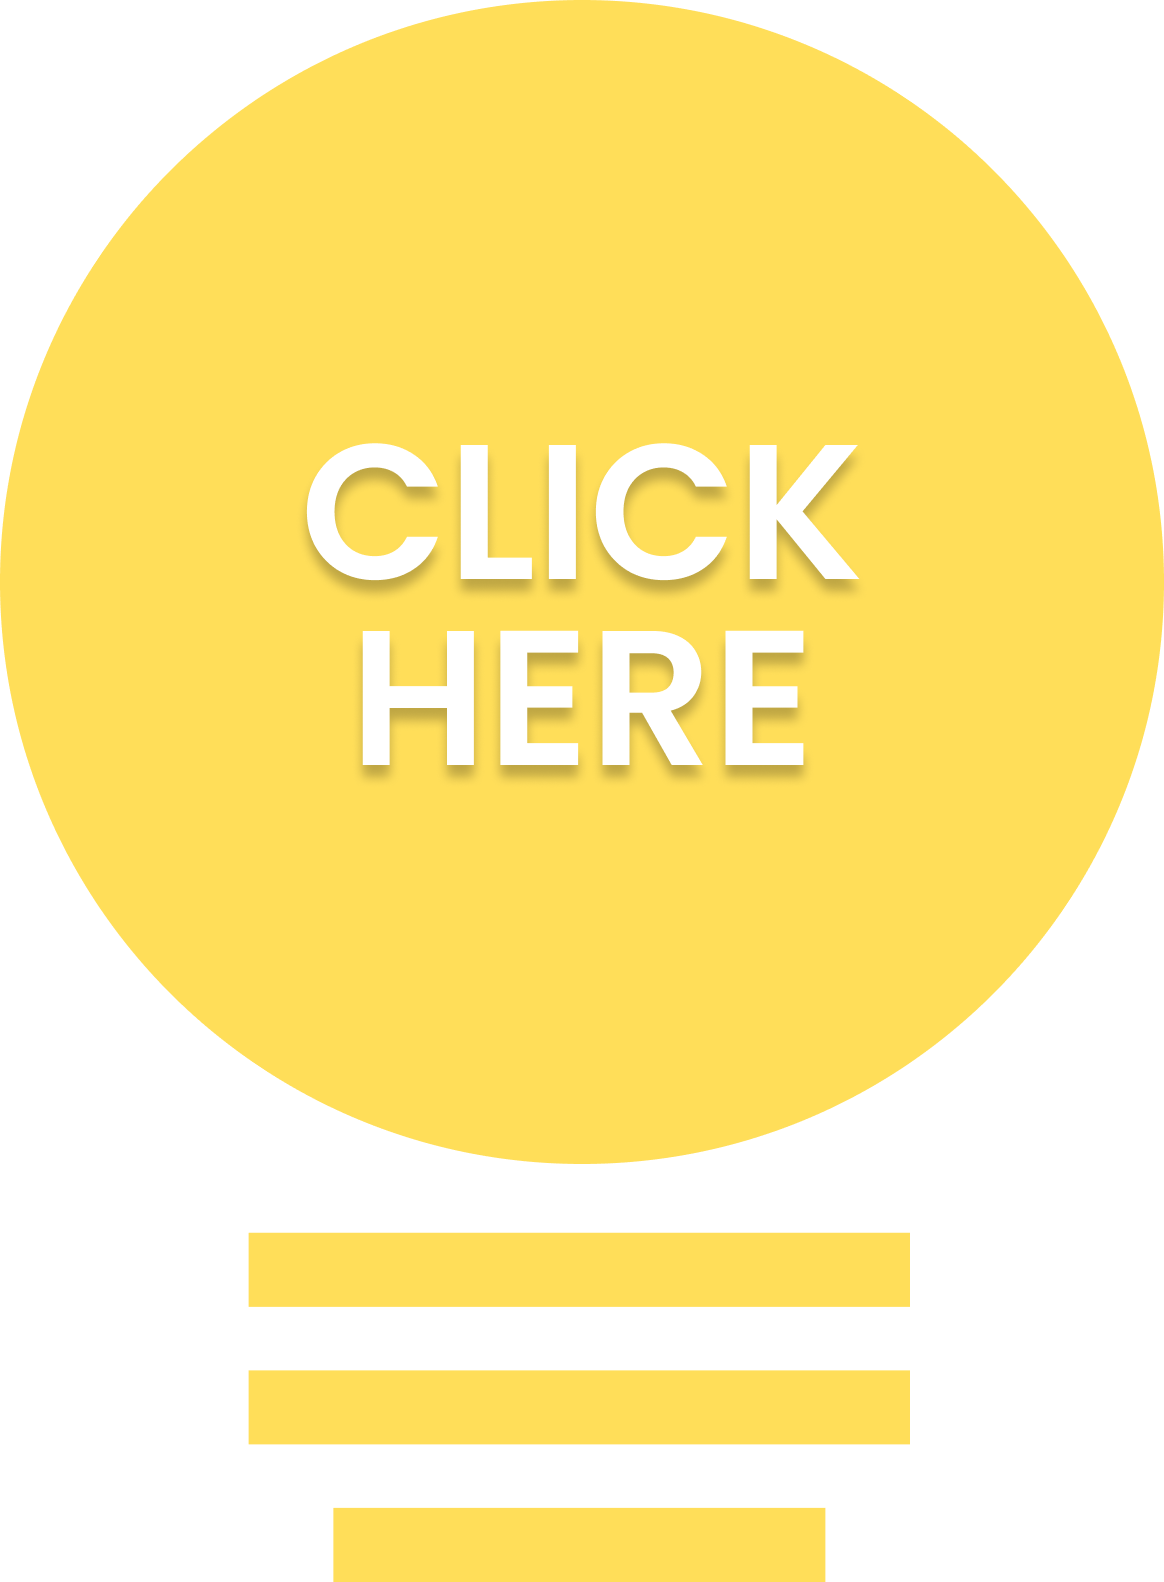
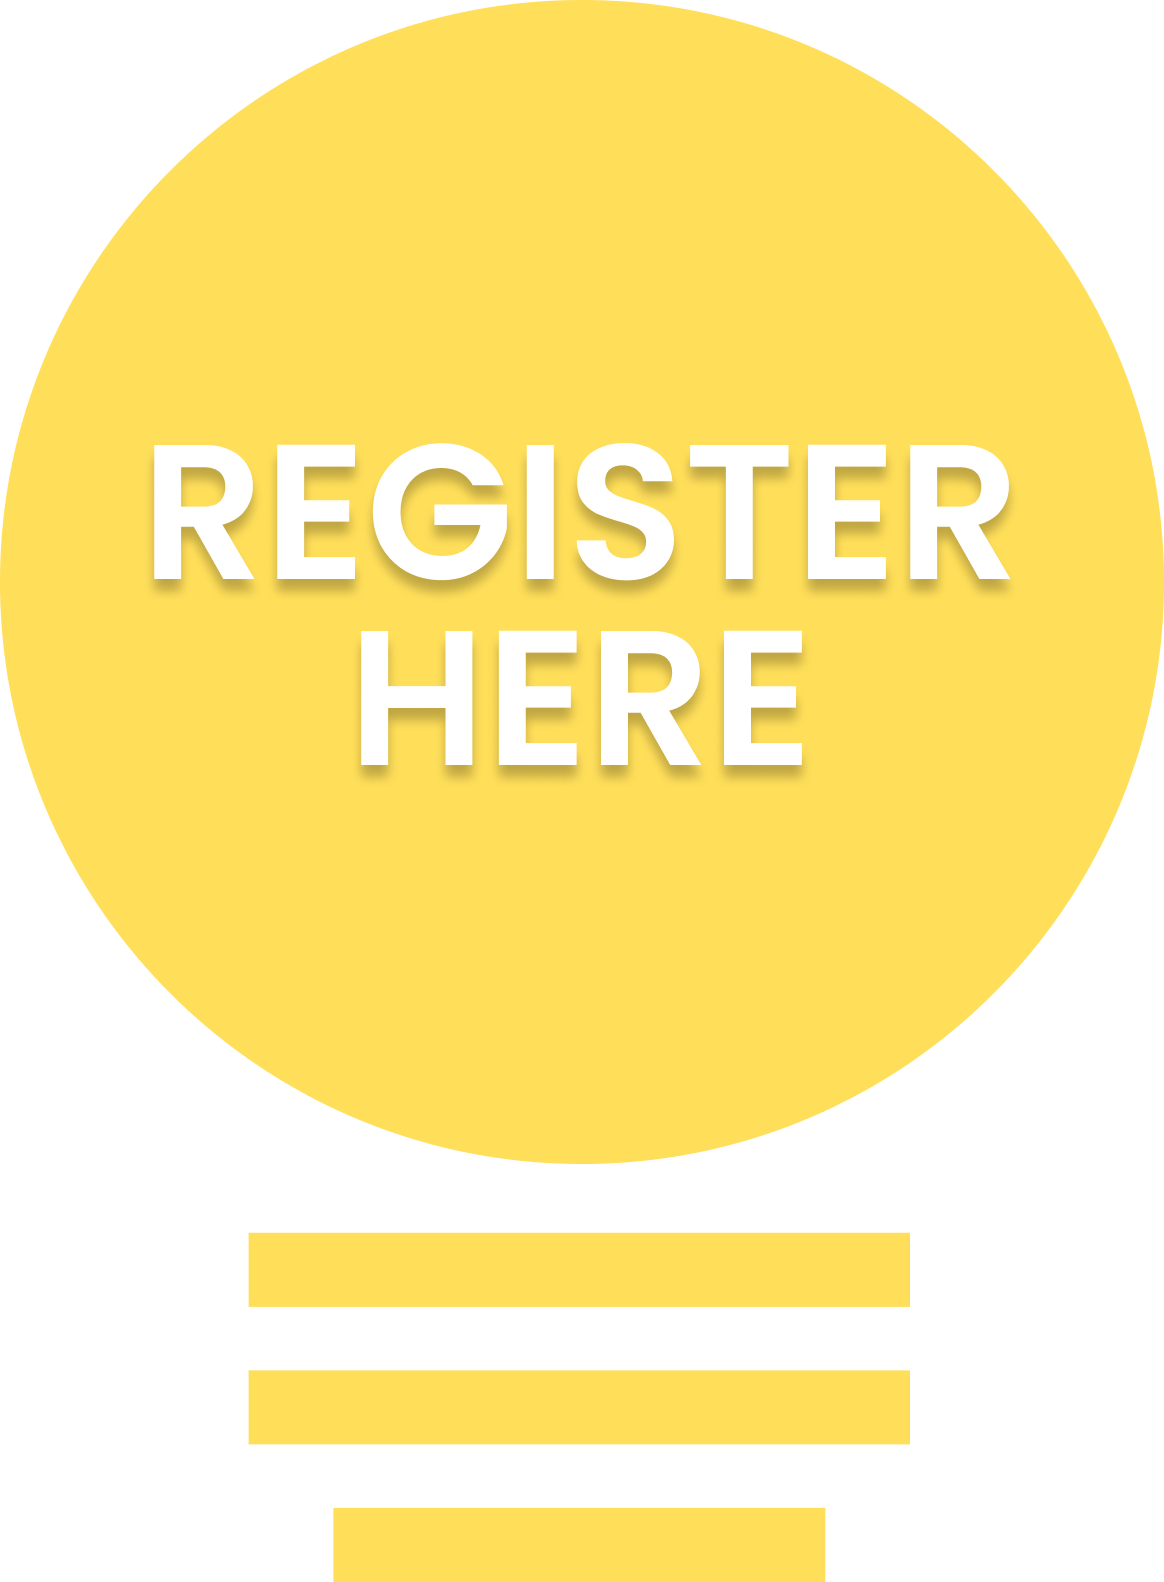
update light bulb and text

Changed region(s): [[0.1237, 0.2788, 0.866, 0.4336], [0.4021, 0.4027, 0.433, 0.4646]]

diff --git a/src/components/home/registerNow/RegisterNow.tsx b/src/components/home/registerNow/RegisterNow.tsx
@@ -28,10 +28,13 @@ const RegisterNow: React.FC<RegisterNowProps> = ({ isRegistrationOpen }) => {
                             src="../register_now/web_reg_button.png"
                             className={`absolute top-15 md:top-10 left-1/2 md:left-2/3 translate-y-1/3 w-[35vw] md:w-[25vw] h-auto`}
                         />
+                        
                         <img
                             src="../register_now/lit_bulb.png"
-                            className={`absolute top-15 md:top-10 left-1/2 md:left-2/3 translate-y-1/3 w-[35vw] md:w-[25vw] h-auto transition-opacity duration-150 opacity-0 ${hovered ? 'md:opacity-100' : 'md:opacity-0'}`}
+                            className={`absolute top-15 md:top-10 left-1/2 md:left-2/3 translate-y-1/3 w-[35vw] md:w-[25vw] h-auto transition-opacity ${hovered? "opacity-100":"animate-pulse"}`}
                         />
+                        
+                        {/* MOBILE */}
                         <img
                             src="../register_now/mobile_reg_button.png"
                             className={`absolute top-15 md:top-10 left-1/2 md:left-2/3 translate-y-1/3 w-[35vw] md:w-[25vw] h-auto md:hidden`}

diff --git a/src/components/home/whatIsIdeate/WhatIsIdeate.tsx b/src/components/home/whatIsIdeate/WhatIsIdeate.tsx
@@ -10,7 +10,7 @@ const WhatIsIdeate: React.FC = () => {
             <div className="w-full px-10 sm:px-20 xl:px-30 md:grid md:grid-cols-3 gap-4 gap-y-10">
                 <div className="col-span-2 text-sm sm:text-base md:text-xl lg:text-2xl 2xl:text-4xl text-left">
                     <p className="text-justify">
-                        IDEATE isn’t just a competition—it’s a launchpad for mechatronic solutions with real-world potential.
+                        IDEATE isn’t just a competition—it’s a launchpad for innovative solutions with real-world potential.
                         Open to <span className="font-bold">all disciplines</span>, this challenge brings together passionate teams who dare to imagine, build, and solve. 
                         You bring the idea—we provide the space to explore it, question it, build it, and bring it to life. 
                         <br />
